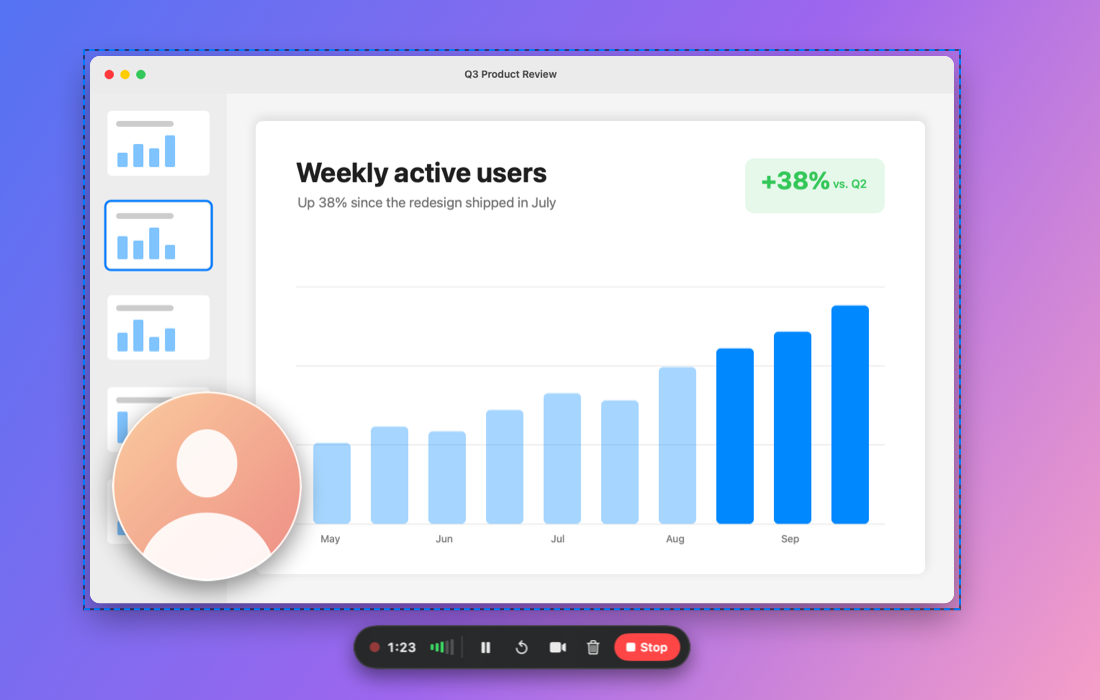
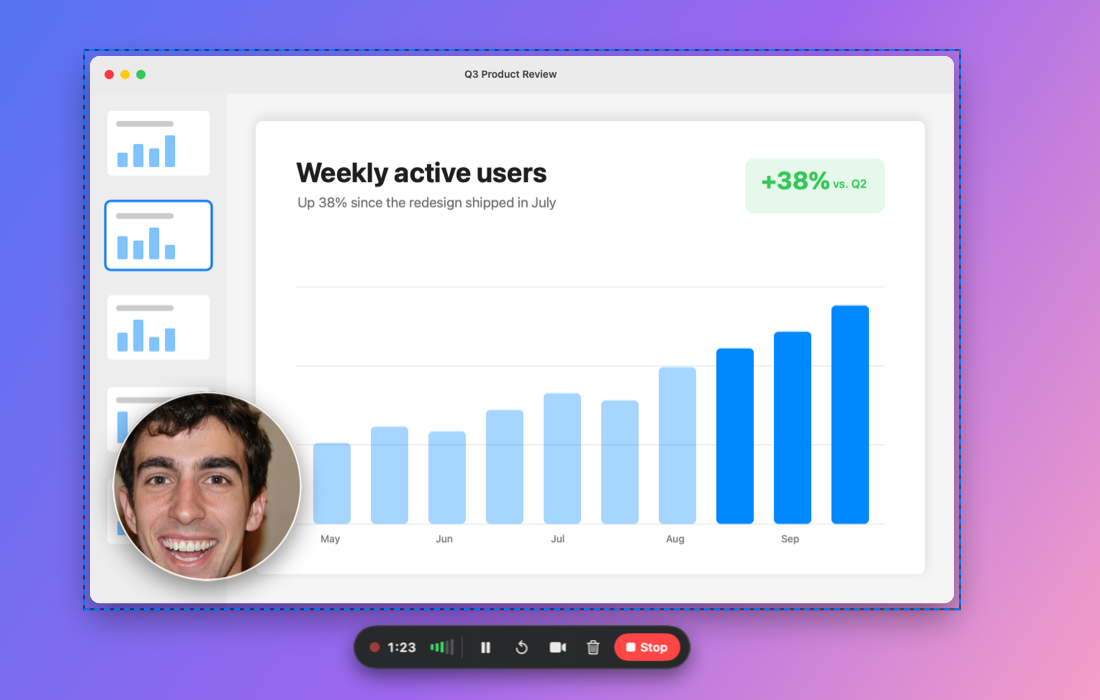
Use an AI-generated face in the recording screenshot
DocsScenario takes GLIMPSE_DOCS_AVATAR for the camera bubble's picture;
docs/recording.png now shows a StyleGAN face of nobody real instead of
the drawn silhouette.

Changed region(s): [[0.0927, 0.54, 0.2782, 0.84]]

diff --git a/Sources/Glimpse/DocsScenario.swift b/Sources/Glimpse/DocsScenario.swift
@@ -7,6 +7,8 @@ import AppKit
 ///   open -n build/debug/Glimpse.app --env GLIMPSE_DOCS_DIR="$PWD/docs" --env GLIMPSE_DOCS_SAMPLE=/path/sample.png
 ///
 /// `--env GLIMPSE_DOCS_ONLY=recording` renders just `recording.png` and `settings.png`.
+/// `--env GLIMPSE_DOCS_AVATAR=/path/face.png` puts that picture in the camera bubble (use an AI-generated face,
+/// not a real person); without it the bubble shows a drawn silhouette.
 ///
 /// Windows are captured with ScreenCaptureKit (needs Screen Recording), so they look exactly like the app.
 @MainActor
@@ -129,9 +131,10 @@ enum DocsScenario {
         }
     }
 
-    /// The recording control bar and a camera bubble (a placeholder avatar, not a real camera) over the fake desktop.
+    /// The recording control bar and a camera bubble (a still picture, not a real camera) over the fake desktop.
     private static func recording(sample: CGImage, scale: CGFloat, out: URL) async {
-        guard let screen = NSScreen.main, let avatar = avatar(size: CGSize(width: 440, height: 440)) else { return }
+        let face = ProcessInfo.processInfo.environment["GLIMPSE_DOCS_AVATAR"].flatMap { ImageUtil.load(url: URL(fileURLWithPath: $0))?.0 }
+        guard let screen = NSScreen.main, let avatar = face ?? avatar(size: CGSize(width: 440, height: 440)) else { return }
         let bubble = CameraBubble.debugPanel(image: avatar, width: 190)
         bubble.setFrameOrigin(NSPoint(x: screen.frame.minX + 40, y: screen.frame.minY + 40))
         bubble.orderFrontRegardless()

diff --git a/README.md b/README.md
@@ -265,7 +265,8 @@ also set `GLIMPSE_SIGN_IDENTITY` to any signing identity.
   ```
 
   Add `--env GLIMPSE_DOCS_ONLY=recording` to render only `recording.png` and `settings.png`. The camera bubble
-  shows a placeholder avatar, not your camera.
+  shows `--env GLIMPSE_DOCS_AVATAR=/path/face.png` (an AI-generated face, not a real person) or a drawn
+  silhouette, never your camera.
 
 ## Releasing
 
